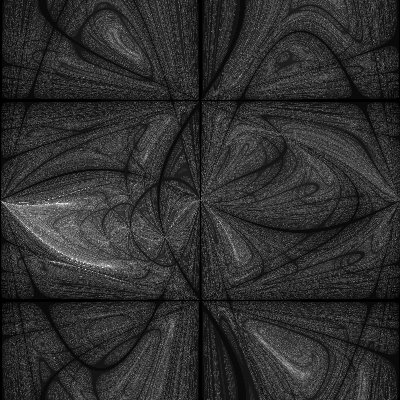
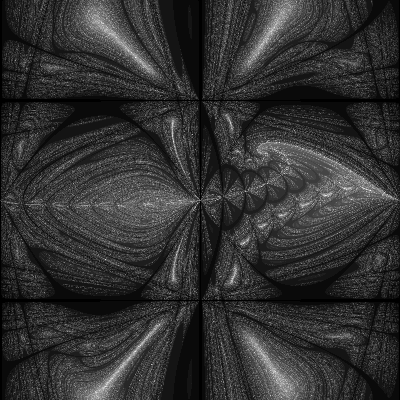
Generalize thorn's plotter function

diff --git a/src/thorn.py b/src/thorn.py
@@ -11,7 +11,6 @@ def main(outdir):
         (0.102, -0.04),
         (1.098, 1.402),
         (9.984, 7.55),
-        (0.662, 1.086),
         (-0.354, 0.162)
     ]
     for j, c in enumerate(params):
@@ -46,22 +45,30 @@ def normalize(lmin, lmax, l):
 
 def thorn(c, width, height):
     "Generates a matrix of pixel values for thorn with parameter c."
+
+    def f(x, y): return thorn_func((x, y), c)
+    pi = math.pi
+
+    return render_2d_function(
+        f, (-pi, pi), (-pi, pi), width=width, height=height)
+
+
+def render_2d_function(f, x_range, y_range, width=600, height=600):
+    (xmin, xmax) = x_range
+    (ymin, ymax) = y_range
+
     values = [[0 for y in range(width)] for x in range(height)]
 
-    for x in range(width):
-        for y in range(height):
-            z = translate(x, y, width, height)
-            values[x][y] = sample(z, c)
+    for i in range(width):
+        for j in range(height):
+            x = xmin + i/width * (xmax-xmin)
+            y = ymin + j/height * (ymax-ymin)
+            values[i][j] = f(x, y)
     return values
 
 
-def translate(x, y, width, height):
-    """translates image coordinates x and y to complex points"""
-    p = math.pi
-    return (-p + x * 2*p / width, -p + y * 2*p / height)
-
-
-def sample(z, c):
+def thorn_func(z, c):
+    "The complex function that is plotted to obtain the Thorn fractal."
     # Spawn a series and see how long it takes for it to grow
     for steps, zn in enumerate(series(c, z)):
         if steps == 255 or (zn[0]**2 + zn[1]**2) > 10000:

diff --git a/README.md b/README.md
@@ -89,7 +89,6 @@ The transformations are devised in such a manner that the point "jumping around"
     <img src="out/thorn-1.png">
     <img src="out/thorn-2.png">
     <img src="out/thorn-3.png">
-    <img src="out/thorn-4.png">
 </p>
 
 Define this complex number series `S(z)`:
